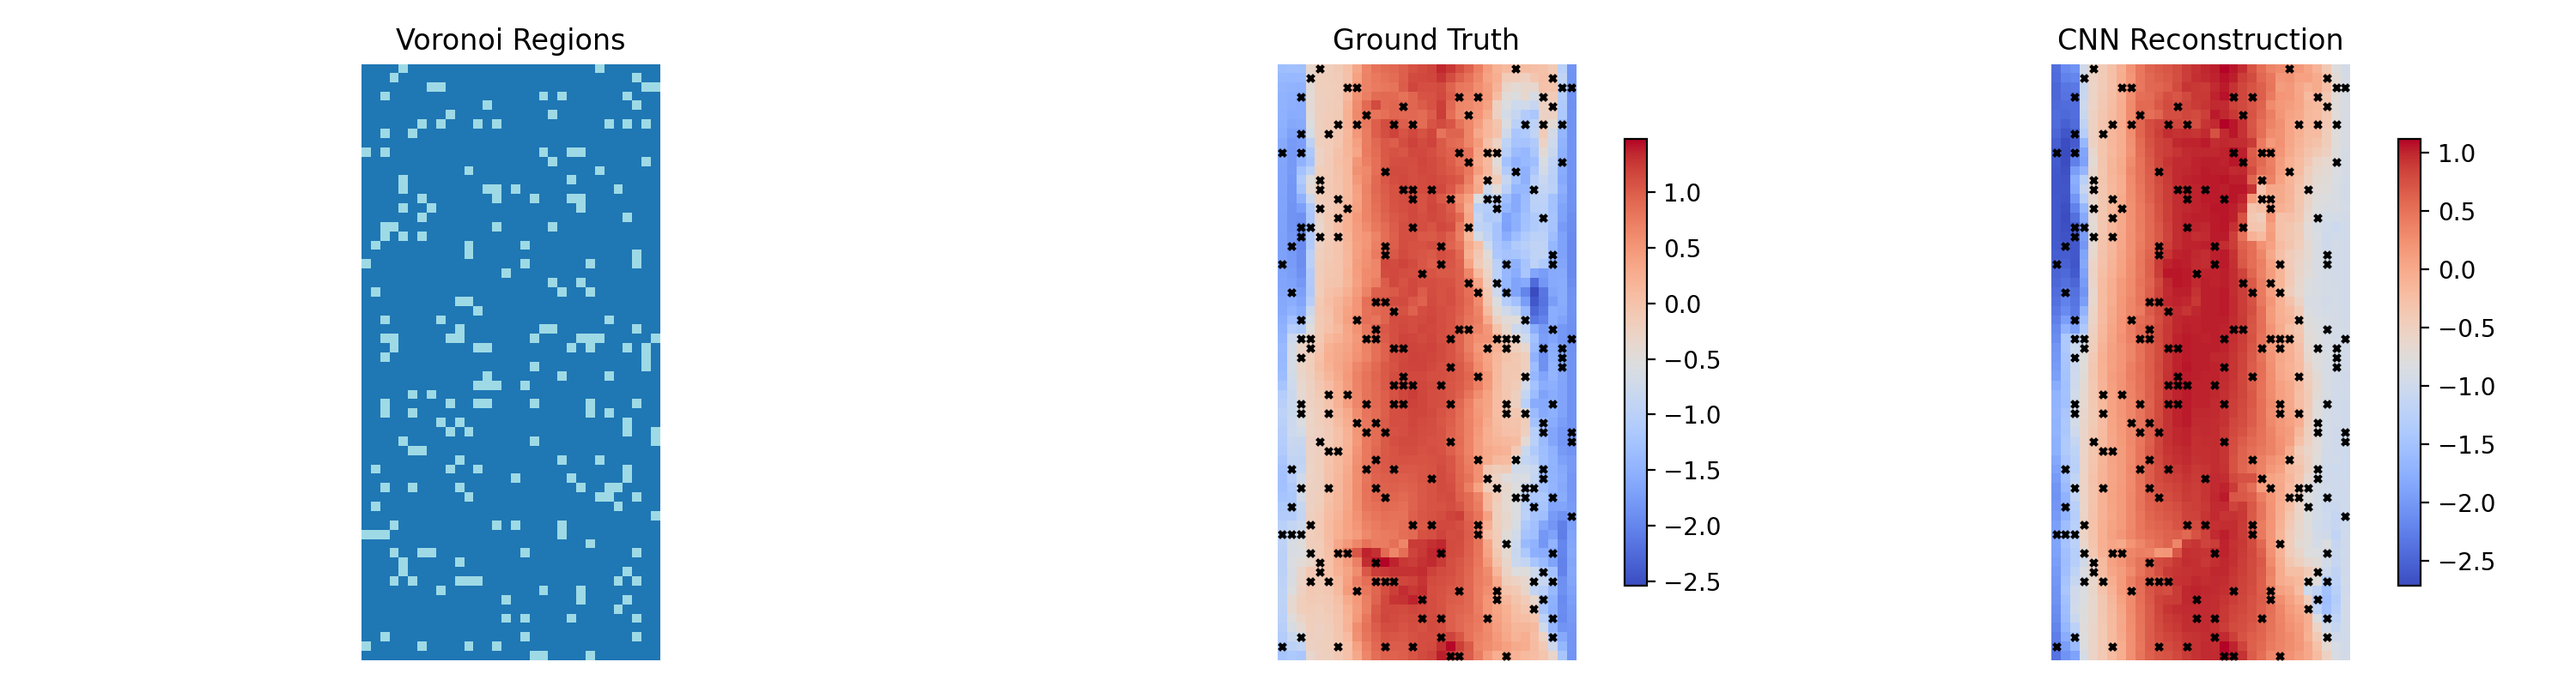
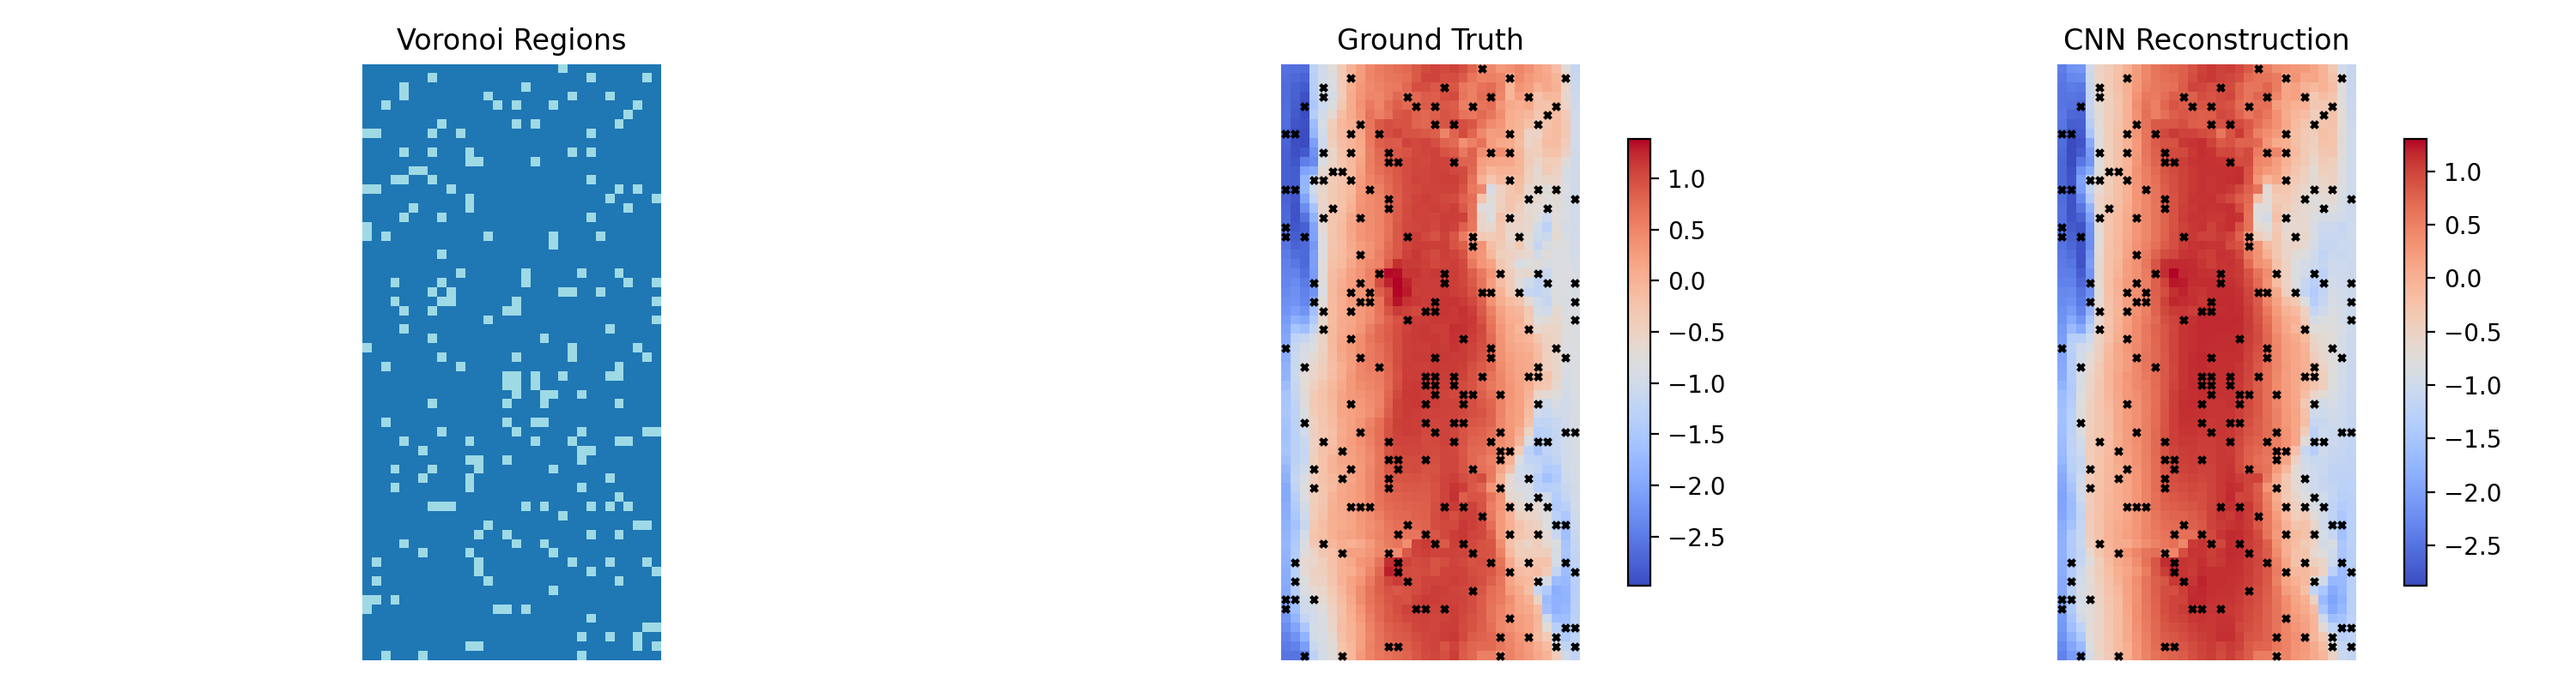
Tested VAE with beta=2

Changed region(s): [[0.775, 0.0312, 0.992, 0.9688], [0.496, 0.0312, 0.682, 0.9688], [0.124, 0.0312, 0.279, 0.9688]]

diff --git a/src/field_reconstruction/train.py b/src/field_reconstruction/train.py
@@ -33,7 +33,7 @@ def get_optimizer(model, config):
     else:
         raise ValueError(f"Unknown optimizer type: {optimizer}")   
 
-def beta_vae_loss_function(recon_x, x, mu, logvar, beta=2):
+def beta_vae_loss_function(recon_x, x, mu, logvar, beta=0):
 
     """
     Compute the beta-VAE loss.
